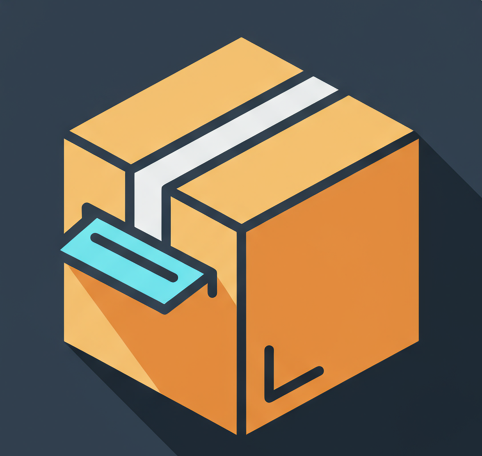
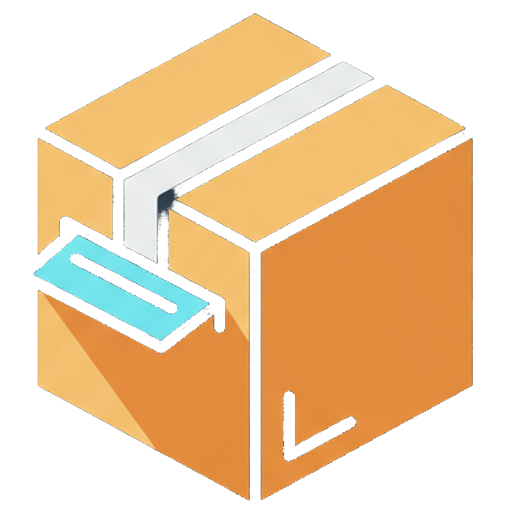
Finally display the image on mobile
- See zotero for the fix
(basically allow http traffic)

- Update the icons

diff --git a/App/App.Android/MainActivity.cs b/App/App.Android/MainActivity.cs
@@ -6,10 +6,12 @@ using Avalonia.Android;
 namespace App.Android;
 
 [Activity(
+    // Name = "dev.wath.smartpackagebox.MainActivity",
     Label = "SmartPackageBox",
     Theme = "@style/MyTheme.NoActionBar",
     Icon = "@drawable/icon",
     MainLauncher = true,
+    Exported = true,
     ConfigurationChanges = ConfigChanges.Orientation | ConfigChanges.ScreenSize | ConfigChanges.UiMode)]
 public class MainActivity : AvaloniaMainActivity<App>
 {